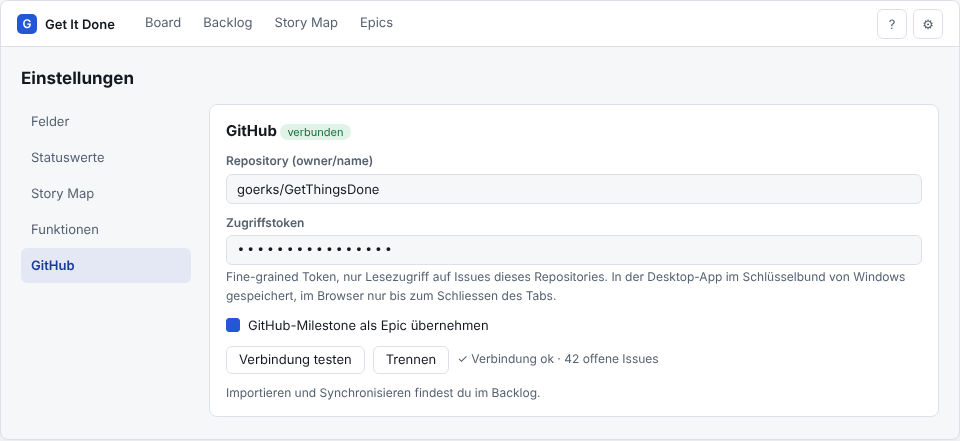
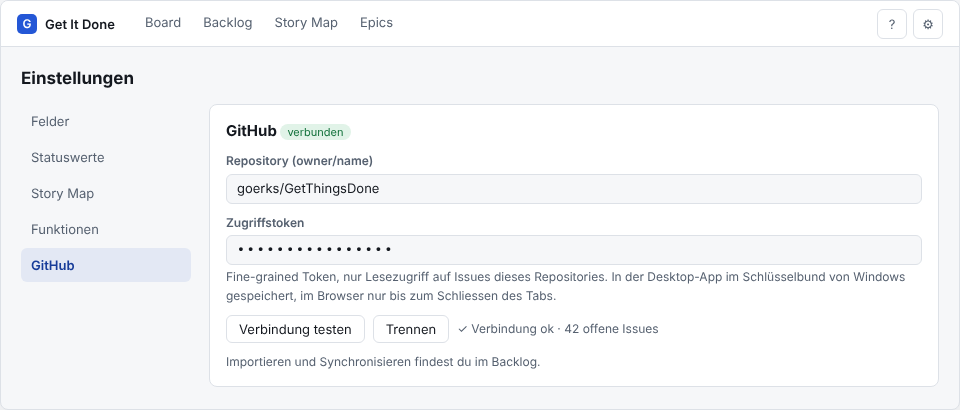
Design GitHub sync: variant B chosen, drop milestone to epic option (#30)
Claude-Session: https://claude.ai/code/session_01PgE77rCnE4skANbn6ds9B7

diff --git a/docs/design/github-sync-variants.html b/docs/design/github-sync-variants.html
@@ -127,7 +127,6 @@ code { font-family: var(--font-mono); font-size: 13px; background: var(--pill); 
             <div class="form">
               <div class="f"><label>Repository</label><div class="in">goerks/GetThingsDone</div></div>
               <div class="f"><label>Zugriffstoken (nur Lesen)</label><div class="in in--tok">••••••••••••••••</div></div>
-              <div class="chk"><i></i>GitHub-Milestone als Epic übernehmen</div>
               <div class="actions"><span class="btn">Verbindung testen</span><span class="btn btn--p">Importieren</span><span class="btn">Synchronisieren</span><span class="stat">Letzter Sync: heute 09:41</span></div>
             </div>
           </div>
@@ -161,7 +160,6 @@ code { font-family: var(--font-mono); font-size: 13px; background: var(--pill); 
             <div class="f"><label>Repository (owner/name)</label><div class="in">goerks/GetThingsDone</div></div>
             <div class="f"><label>Zugriffstoken</label><div class="in in--tok">••••••••••••••••</div>
               <span class="note">Fine-grained Token, nur Lesezugriff auf Issues dieses Repositories. In der Desktop-App im Schlüsselbund von Windows gespeichert, im Browser nur bis zum Schliessen des Tabs.</span></div>
-            <div class="chk"><i></i>GitHub-Milestone als Epic übernehmen</div>
             <div class="actions"><span class="btn">Verbindung testen</span><span class="btn">Trennen</span><span class="stat">✓ Verbindung ok · 42 offene Issues</span></div>
           </div>
           <p class="note">Importieren und Synchronisieren findest du im Backlog.</p>

diff --git a/docs/design/github-sync.md b/docs/design/github-sync.md
@@ -8,7 +8,7 @@ Mockups (clickable): [`github-sync-variants.html`](github-sync-variants.html); s
 
 | Variant | Idea | Status |
 |---|---|---|
-| A · Everything in Settings → Features | Switch "GitHub connection" in the list of features; the form (repository, token, milestone → epic) and the buttons import / sync open below it | Proposed |
+| A · Everything in Settings → Features | Switch "GitHub connection" in the list of features; the form (repository, token) and the buttons import / sync open below it | Proposed |
 | B · Switch in Features, own section "GitHub", sync in the Backlog | Switch in Features (like Releases); when on, Settings gets a section "GitHub" for the connection; the Backlog gets a "Synchronise" button, the last sync time and a result dialog | **Recommended** |
 | C · Wizard in the Backlog | Features only has the switch; the Backlog offers "Connect with GitHub", a three step dialog | Proposed |
 
@@ -19,3 +19,7 @@ Mockups (clickable): [`github-sync-variants.html`](github-sync-variants.html); s
 - Import and sync run only by hand. Read access only.
 - GitHub wins on title, description, labels, criteria and their ticks; sprint, points, rank and the board column of open stories stay local.
 - Errors (no network, wrong token, repository not found) say what happened and that the local data is unchanged.
+
+## Decision (PO, #30)
+
+Variant B. Milestones and epics are not synchronised for now (no "milestone → epic" option); this replaces the earlier answer in the issue.
